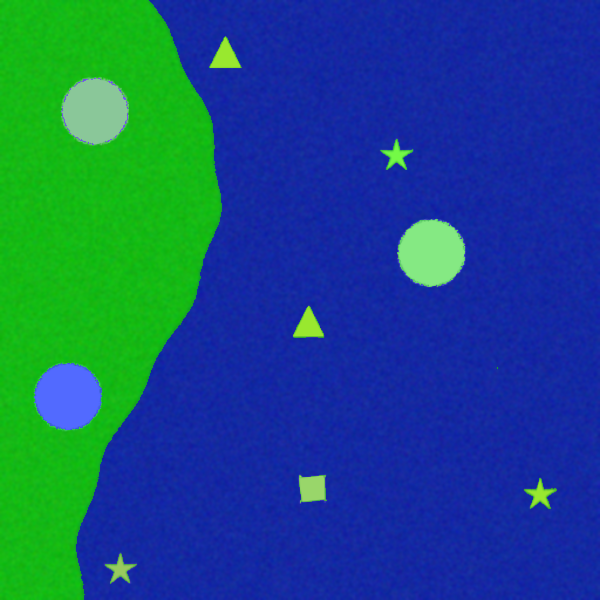
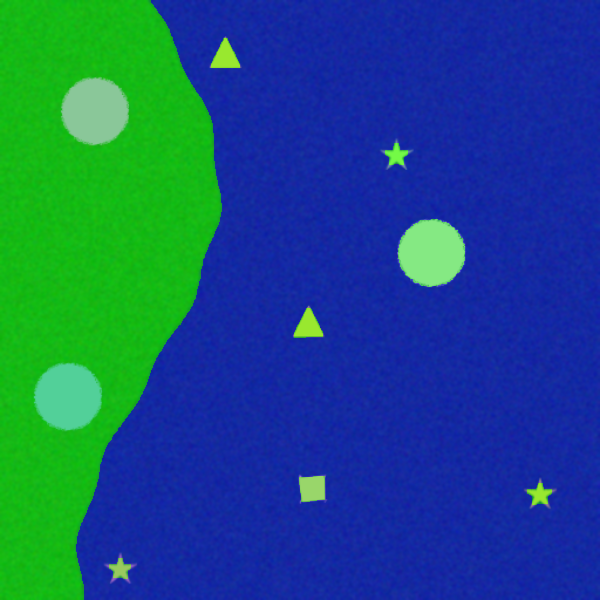
Updated segmentation and camp detection

Changed region(s): [[0.06, 0.6, 0.18, 0.72]]

diff --git a/main.py b/main.py
@@ -1,4 +1,4 @@
-import cv2
+import cv2 
 import numpy as np
 import os
 
@@ -8,9 +8,23 @@ output_folder = "output"
 if not os.path.exists(output_folder):
     os.makedirs(output_folder)
 
+def classify_camp_from_bgr(bgr):
+    b, g, r = int(bgr[0]), int(bgr[1]), int(bgr[2])
+
+    if abs(r - g) < 30 and abs(g - b) < 30 and r > 160:
+        return "grey"
+
+    if b > 150 and g > 100 and r < 150:
+        return "blue"
+
+    if r > 150 and b > 120 and g < 170:
+        return "pink"
+
+    return "unknown"
+
 for file_name in os.listdir(input_folder):
 
-    if file_name.endswith(".png") or file_name.endswith(".jpg") or file_name.endswith(".jpeg"):
+    if file_name.endswith((".png", ".jpg", ".jpeg")):
 
         img_path = os.path.join(input_folder, file_name)
         img = cv2.imread(img_path)
@@ -23,22 +37,61 @@ for file_name in os.listdir(input_folder):
 
         hsv = cv2.cvtColor(img, cv2.COLOR_BGR2HSV)
 
-        lower_blue = np.array([90, 50, 50])
-        upper_blue = np.array([140, 255, 255])
+        lower_water = np.array([90, 20, 20])
+        upper_water = np.array([140, 255, 160])
 
-        water_mask = cv2.inRange(hsv, lower_blue, upper_blue)
+        water_mask = cv2.inRange(hsv, lower_water, upper_water)
+
+        kernel = np.ones((5, 5), np.uint8)
+        water_mask = cv2.morphologyEx(water_mask, cv2.MORPH_OPEN, kernel)
+        water_mask = cv2.morphologyEx(water_mask, cv2.MORPH_CLOSE, kernel)
+
         land_mask = cv2.bitwise_not(water_mask)
 
         overlay = img.copy()
+        overlay[water_mask > 0] = (255, 0, 0)   
+        overlay[land_mask > 0] = (0, 255, 0)    
 
-        overlay[water_mask > 0] = (255, 0, 0)
-        overlay[land_mask > 0] = (0, 255, 0)
+        final_seg = cv2.addWeighted(img, 0.6, overlay, 0.4, 0)
 
-        final = cv2.addWeighted(img, 0.6, overlay, 0.4, 0)
+        seg_path = os.path.join(output_folder, "seg_" + file_name)
+        cv2.imwrite(seg_path, final_seg)
+        print("✅ Saved segmentation:", seg_path)
 
-        out_path = os.path.join(output_folder, "seg_" + file_name)
-        cv2.imwrite(out_path, final)
+        gray = cv2.cvtColor(img, cv2.COLOR_BGR2GRAY)
+        blur = cv2.medianBlur(gray, 5)
 
-        print("Saved:", out_path)
+        circles = cv2.HoughCircles(
+            blur,
+            cv2.HOUGH_GRADIENT,
+            dp=1.2,
+            minDist=120,
+            param1=80,
+            param2=30,
+            minRadius=15,
+            maxRadius=60
+        )
 
-print(" Check output folder.")
+        camps = {} 
+
+        if circles is not None:
+            circles = np.uint16(np.around(circles[0]))
+
+            for (x, y, r) in circles:
+                camp_type = classify_camp_from_bgr(img[y, x])
+
+                if camp_type != "unknown" and camp_type not in camps:
+                    camps[camp_type] = (x, y)
+
+                    cv2.circle(img, (x, y), r, (0, 0, 255), 2)
+                    cv2.circle(img, (x, y), 2, (255, 255, 255), 3)
+                    cv2.putText(img, camp_type, (x - 30, y - 10),
+                                cv2.FONT_HERSHEY_SIMPLEX, 0.6, (0, 0, 0), 2)
+
+        print("✅ Camps detected in", file_name, "=>", camps)
+
+        camp_out_path = os.path.join(output_folder, "camps_" + file_name)
+        cv2.imwrite(camp_out_path, img)
+        print("✅ Saved camps image:", camp_out_path)
+
+print("\n✅ Done! Check output folder.")
